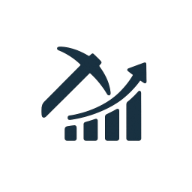
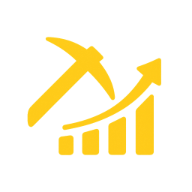
feat: Add dashboard page with UI components, utility functions, and assets for benchmark data display.

Changed region(s): [[0.125, 0.1875, 0.8438, 0.8125]]

diff --git a/components/StatsCards.tsx b/components/StatsCards.tsx
@@ -1,105 +1,37 @@
 'use client';
-import { useState, useEffect } from 'react';
-import { BenchmarkSummary, Test, BenchmarkResult } from '@/types/benchmark';
+
+import { BenchmarkSummary, BenchmarkResult } from '@/types/benchmark';
 import { formatHashrate, formatEfficiency } from '@/lib/utils';
-import { TrendingUp, Cpu, Zap, Award, Clock, DollarSign } from 'lucide-react';
-import { supabase } from '@/lib/supabaseClient';
+import { TrendingUp, Cpu, Zap, Award, Clock } from 'lucide-react';
 
 interface StatsCardsProps {
   summary: BenchmarkSummary;
 }
-interface BenchmarkTest {
-  id: number;
-  algorithm: string;
-  device_name: string;
-  device_type: string;
-  avg_hashrate: number;
-  avg_power: number | null;
-  efficiency: number;
-  created_at: string;
-  gpu_model: string;
-}
 
 export default function StatsCards({ summary }: StatsCardsProps) {
-  const [localTests, setLocalTests] = useState<BenchmarkTest[]>([]);
-  const [loading, setLoading] = useState(true);
-
-  useEffect(() => {
-    const fetchTests = async () => {
-      setLoading(true);
-      const { data, error } = await supabase
-        .from('benchmarks')
-        .select('*')
-        .order('created_at', { ascending: false });
-
-      if (error) {
-        console.error(error);
-        setLoading(false);
-        return;
-      }
-      const latestMap = new Map<string, typeof data[0]>();
-      data.forEach(item => {
-        if (!latestMap.has(item.device_uid) || new Date(item.created_at) > new Date(latestMap.get(item.device_uid)!.created_at)) {
-          latestMap.set(item.device_uid, item);
-        }
-      });
-      const uniqueData = Array.from(latestMap.values());
-      setLocalTests(uniqueData.map(item => ({
-        id: item.id,
-        algorithm: item.algorithm,
-        device_name: item.device_name,
-        device_type: item.device_type,
-        avg_hashrate: Number(item.avg_hashrate),
-        avg_power: item.avg_power ? Number(item.avg_power) : null,
-        efficiency: item.avg_power && Number(item.avg_power) > 0
-          ? Number(item.avg_hashrate) / Number(item.avg_power)
-          : 0,
-        created_at: item.created_at,
-        gpu_model: item.device_name
-      })));
-      setLoading(false);
-    };
-
-    fetchTests();
-  }, []);
-
-  if (loading) return <div className="animate-pulse h-32 bg-zinc-900 border border-zinc-800 mb-8"></div>;
-  if (localTests.length === 0) return <p className="text-zinc-400">No benchmark data found.</p>;
-
-  const totalTests = localTests.length;
-  const averageHashrate = localTests.reduce((acc, t) => acc + t.avg_hashrate, 0) / totalTests;
-
-  // Calculate efficiency only for tests with power data
-  const testsWithPower = localTests.filter(t => t.efficiency && t.efficiency > 0);
-  const averageEfficiency = testsWithPower.length > 0
-    ? testsWithPower.reduce((acc, t) => acc + t.efficiency, 0) / testsWithPower.length
-    : 0;
-
-  const bestPerformer = localTests.reduce((best, t) => t.avg_hashrate > best.avg_hashrate ? t : best, localTests[0]);
-
   const stats = [
     {
       title: 'Total Tests',
-      value: totalTests.toString(),
+      value: summary.totalTests.toString(),
       icon: Cpu,
       textColor: 'text-yellow-400',
     },
     {
       title: 'Average Hashrate',
-      value: formatHashrate(averageHashrate),
+      value: formatHashrate(summary.averageHashrate),
       icon: TrendingUp,
       textColor: 'text-yellow-400',
     },
     {
       title: 'Average Efficiency',
-      value: formatEfficiency(averageEfficiency),
+      value: formatEfficiency(summary.averageEfficiency),
       icon: Zap,
       textColor: 'text-yellow-400',
     },
     {
       title: 'Best Performer',
-      value: bestPerformer.algorithm,
-      subtitle: bestPerformer.gpu_model,
+      value: summary.bestPerformer.algorithm,
+      subtitle: summary.bestPerformer.gpuModel,
       icon: Award,
       textColor: 'text-yellow-400',
     },

diff --git a/app/dashboard/page.tsx b/app/dashboard/page.tsx
@@ -33,6 +33,8 @@ export default function Dashboard() {
         }
       });
       const uniqueData = Array.from(latestMap.values());
+
+      // Map data for results display
       setResults(
         uniqueData.map(item => ({
           id: item.id,
@@ -45,8 +47,24 @@ export default function Dashboard() {
           gpu_model: item.gpu_model || item.device_name,
         }))
       );
+
+      // Map data for summary calculation with proper field names
+      const summaryData = uniqueData.map(item => ({
+        id: item.id,
+        algorithm: item.algorithm,
+        device_name: item.device_name,
+        device_type: item.device_type,
+        hashrate: Number(item.avg_hashrate),
+        powerConsumption: item.avg_power ? Number(item.avg_power) : undefined,
+        efficiency: Number(item.efficiency),
+        created_at: item.created_at,
+        timestamp: item.created_at,
+        gpu_model: item.gpu_model || item.device_name,
+        gpuModel: item.gpu_model || item.device_name,
+      }));
+
       setTests(uniqueData);
-      setSummary(calculateSummary(uniqueData));
+      setSummary(calculateSummary(summaryData));
     } catch (e) {
       console.error(e);
     } finally {
@@ -79,21 +97,35 @@ export default function Dashboard() {
             <BenchmarkTable results={results} onRefresh={handleRefresh} />
           </div>
           <div className="space-y-6">
-          </div>
-          <div className="flex justify-between">
-            <span className="text-sm text-zinc-500">Data Points:</span>
-            <span className="text-sm font-medium text-white">{results.length}</span>
-          </div>
-          <div className="flex justify-between">
-            <span className="text-sm text-zinc-500">Status:</span>
-            <span className="text-sm font-medium text-green-400">Active</span>
+            <RecentTests tests={tests} />
+            <div className="bg-black border border-zinc-800 rounded-lg p-6">
+              <div className="flex items-center justify-between mb-4">
+                <h3 className="text-lg font-semibold text-white">System Info</h3>
+                <Settings className="w-5 h-5 text-zinc-500" />
+              </div>
+              <div className="space-y-2">
+                <div className="flex justify-between">
+                  <span className="text-sm text-zinc-500">Version:</span>
+                  <span className="text-sm font-medium text-white">0.1.2</span>
+                </div>
+                <div className="flex justify-between">
+                  <span className="text-sm text-zinc-500">Environment:</span>
+                  <span className="text-sm font-medium text-white">Production</span>
+                </div>
+                <div className="flex justify-between">
+                  <span className="text-sm text-zinc-500">Data Points:</span>
+                  <span className="text-sm font-medium text-white">{results.length}</span>
+                </div>
+                <div className="flex justify-between">
+                  <span className="text-sm text-zinc-500">Status:</span>
+                  <span className="text-sm font-medium text-yellow-400">Active</span>
+                </div>
+              </div>
+            </div>
           </div>
         </div>
+      </main>
+      <Footer />
     </div>
-          </div >
-        </div >
-      </main >
-    <Footer />
-    </div >
   );
 }

diff --git a/components/Footer.tsx b/components/Footer.tsx
@@ -1,7 +1,5 @@
 import Image from 'next/image';
 import Link from 'next/link';
-import discord_icon from '@/public/img/discord-icon.svg';
-import x_icon from '@/public/img/x-icon.svg';
 import { Github } from 'lucide-react';
 
 export default function Footer() {
@@ -33,7 +31,7 @@ export default function Footer() {
           {/* Links */}
           <div className="flex flex-col items-center">
             <h3 className="text-sm font-bold text-white uppercase tracking-widest mb-4">Navigate</h3>
-            <div className="space-y-2">
+            <div className="space-y-2 mb-2">
               {footerLinks.map(link => (
                 <Link key={link.href} href={link.href} className="block text-sm text-zinc-500 hover:text-yellow-400 transition-colors uppercase tracking-wide">
                   {link.name}
@@ -49,11 +47,15 @@ export default function Footer() {
               <a href="https://github.com/karbivskyi/minebench-ui" target="_blank" rel="noopener noreferrer" className="w-10 h-10 border border-zinc-800 hover:border-yellow-400 flex items-center justify-center transition-all group">
                 <Github className="w-5 h-5 text-zinc-500 group-hover:text-yellow-400 transition-colors" />
               </a>
-              <a href="https://discord.gg/a3gNvZUW" target="_blank" rel="noopener noreferrer" className="w-10 h-10 border border-zinc-800 hover:border-yellow-400 flex items-center justify-center transition-all group">
-                <Image src={discord_icon} alt="Discord" fill className="object-contain opacity-50 group-hover:opacity-100 transition-opacity" />
+              <a href="https://discord.gg/akWk9ZrN" target="_blank" rel="noopener noreferrer" className="w-10 h-10 border border-zinc-800 hover:border-yellow-400 flex items-center justify-center transition-all group">
+                <div className="relative w-5 h-5">
+                  <Image src="/img/discord-icon.svg" alt="Discord" fill className="object-contain opacity-50 group-hover:opacity-100 transition-opacity" />
+                </div>
               </a>
               <a href="https://x.com/MineBenchdapp" target="_blank" rel="noopener noreferrer" className="w-10 h-10 border border-zinc-800 hover:border-yellow-400 flex items-center justify-center transition-all group">
-                <Image src={x_icon} alt="X (Twitter)" fill className="object-contain opacity-50 group-hover:opacity-100 transition-opacity" />
+                <div className="relative w-5 h-5">
+                  <Image src="/img/x-icon.svg" alt="X (Twitter)" fill className="object-contain opacity-50 group-hover:opacity-100 transition-opacity" />
+                </div>
               </a>
             </div>
           </div>

diff --git a/lib/utils.ts b/lib/utils.ts
@@ -98,8 +98,21 @@ export const calculateSummary = (results: BenchmarkResult[]): BenchmarkSummary =
   const totalTests = results.length;
   const averageHashrate =
     results.reduce((sum, r) => sum + (r.hashrate ?? 0), 0) / totalTests;
-  const averageEfficiency =
-    results.reduce((sum, r) => sum + (r.efficiency ?? 0), 0) / totalTests;
+
+  // Calculate efficiency only for results with valid power consumption and hashrate
+  const resultsWithPower = results.filter(r =>
+    r.powerConsumption != null &&
+    r.powerConsumption > 0 &&
+    r.hashrate != null &&
+    r.hashrate > 0
+  );
+
+  const averageEfficiency = resultsWithPower.length > 0
+    ? resultsWithPower.reduce((sum, r) => {
+      const efficiency = (r.hashrate ?? 0) / (r.powerConsumption ?? 1);
+      return sum + efficiency;
+    }, 0) / resultsWithPower.length
+    : 0;
 
 
   const bestPerformer = results.reduce((best, current) =>

diff --git a/app/globals.css b/app/globals.css
@@ -6,32 +6,20 @@
   :root {
     --background: 0 0% 4%;
     --foreground: 0 0% 98%;
-
     --card: 0 0% 4%;
     --card-foreground: 0 0% 98%;
-
     --popover: 0 0% 4%;
     --popover-foreground: 0 0% 98%;
-
-    /* Neon Accents */
     --primary: 263 90% 60%;
-    /* Purple */
     --primary-foreground: 0 0% 100%;
-
     --secondary: 47 100% 50%;
-    /* Yellow */
     --secondary-foreground: 0 0% 0%;
-
     --muted: 0 0% 15%;
     --muted-foreground: 0 0% 65%;
-
     --accent: 180 100% 50%;
-    /* Cyan */
     --accent-foreground: 0 0% 0%;
-
     --destructive: 0 100% 50%;
     --destructive-foreground: 0 0% 100%;
-
     --border: 0 0% 20%;
     --input: 0 0% 15%;
     --ring: 263 90% 60%;
@@ -50,7 +38,6 @@
     background-attachment: fixed;
   }
 
-  /* Custom Scrollbar */
   ::-webkit-scrollbar {
     width: 8px;
     height: 8px;

diff --git a/components/Header.tsx b/components/Header.tsx
@@ -30,7 +30,7 @@ export default function Header({ onRefresh, loading }: HeaderProps = {}) {
           {/* Logo */}
           <Link href="/" className="flex items-center space-x-3 group">
             <div className="relative w-8 h-8">
-              <Image src="/img/android-chrome-512x512.png" alt="Minebench" fill className="object-contain" />
+              <Image src="/img/minebench-logo.png" alt="Minebench" fill className="object-contain" />
             </div>
             <span className="text-xl font-bold tracking-tighter text-white group-hover:text-yellow-400 transition-colors uppercase">
               MINEBENCH
